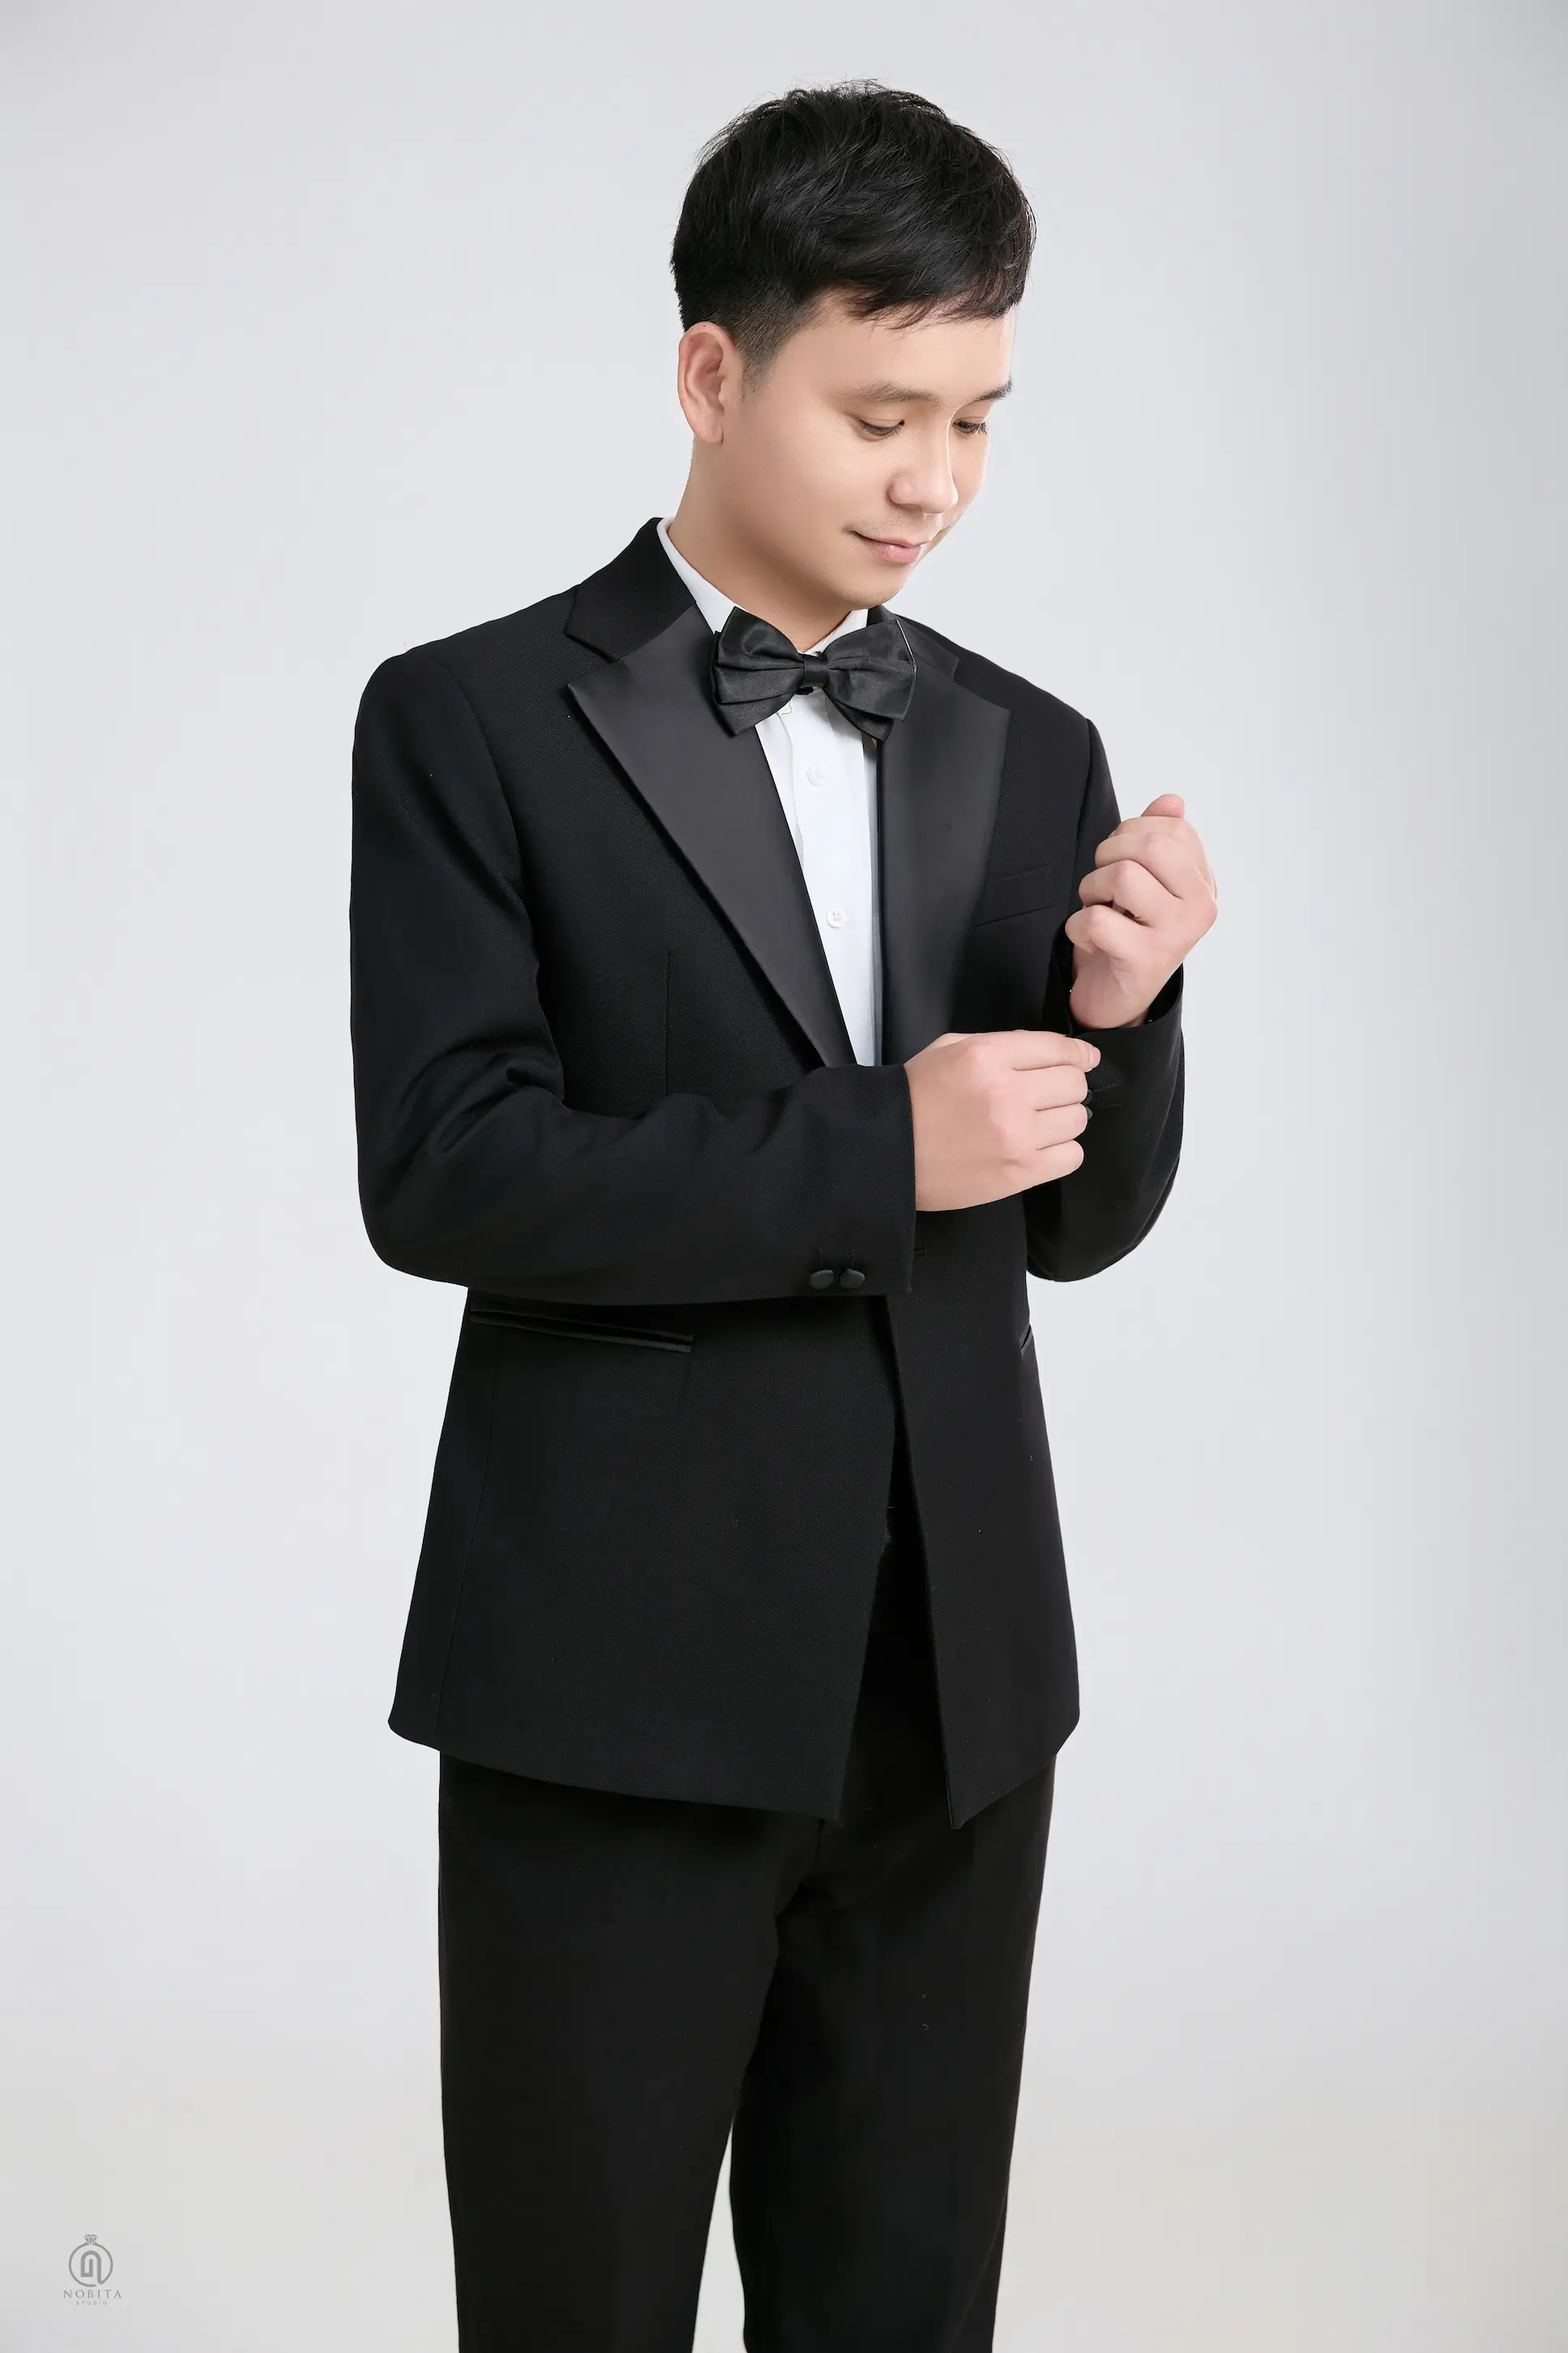
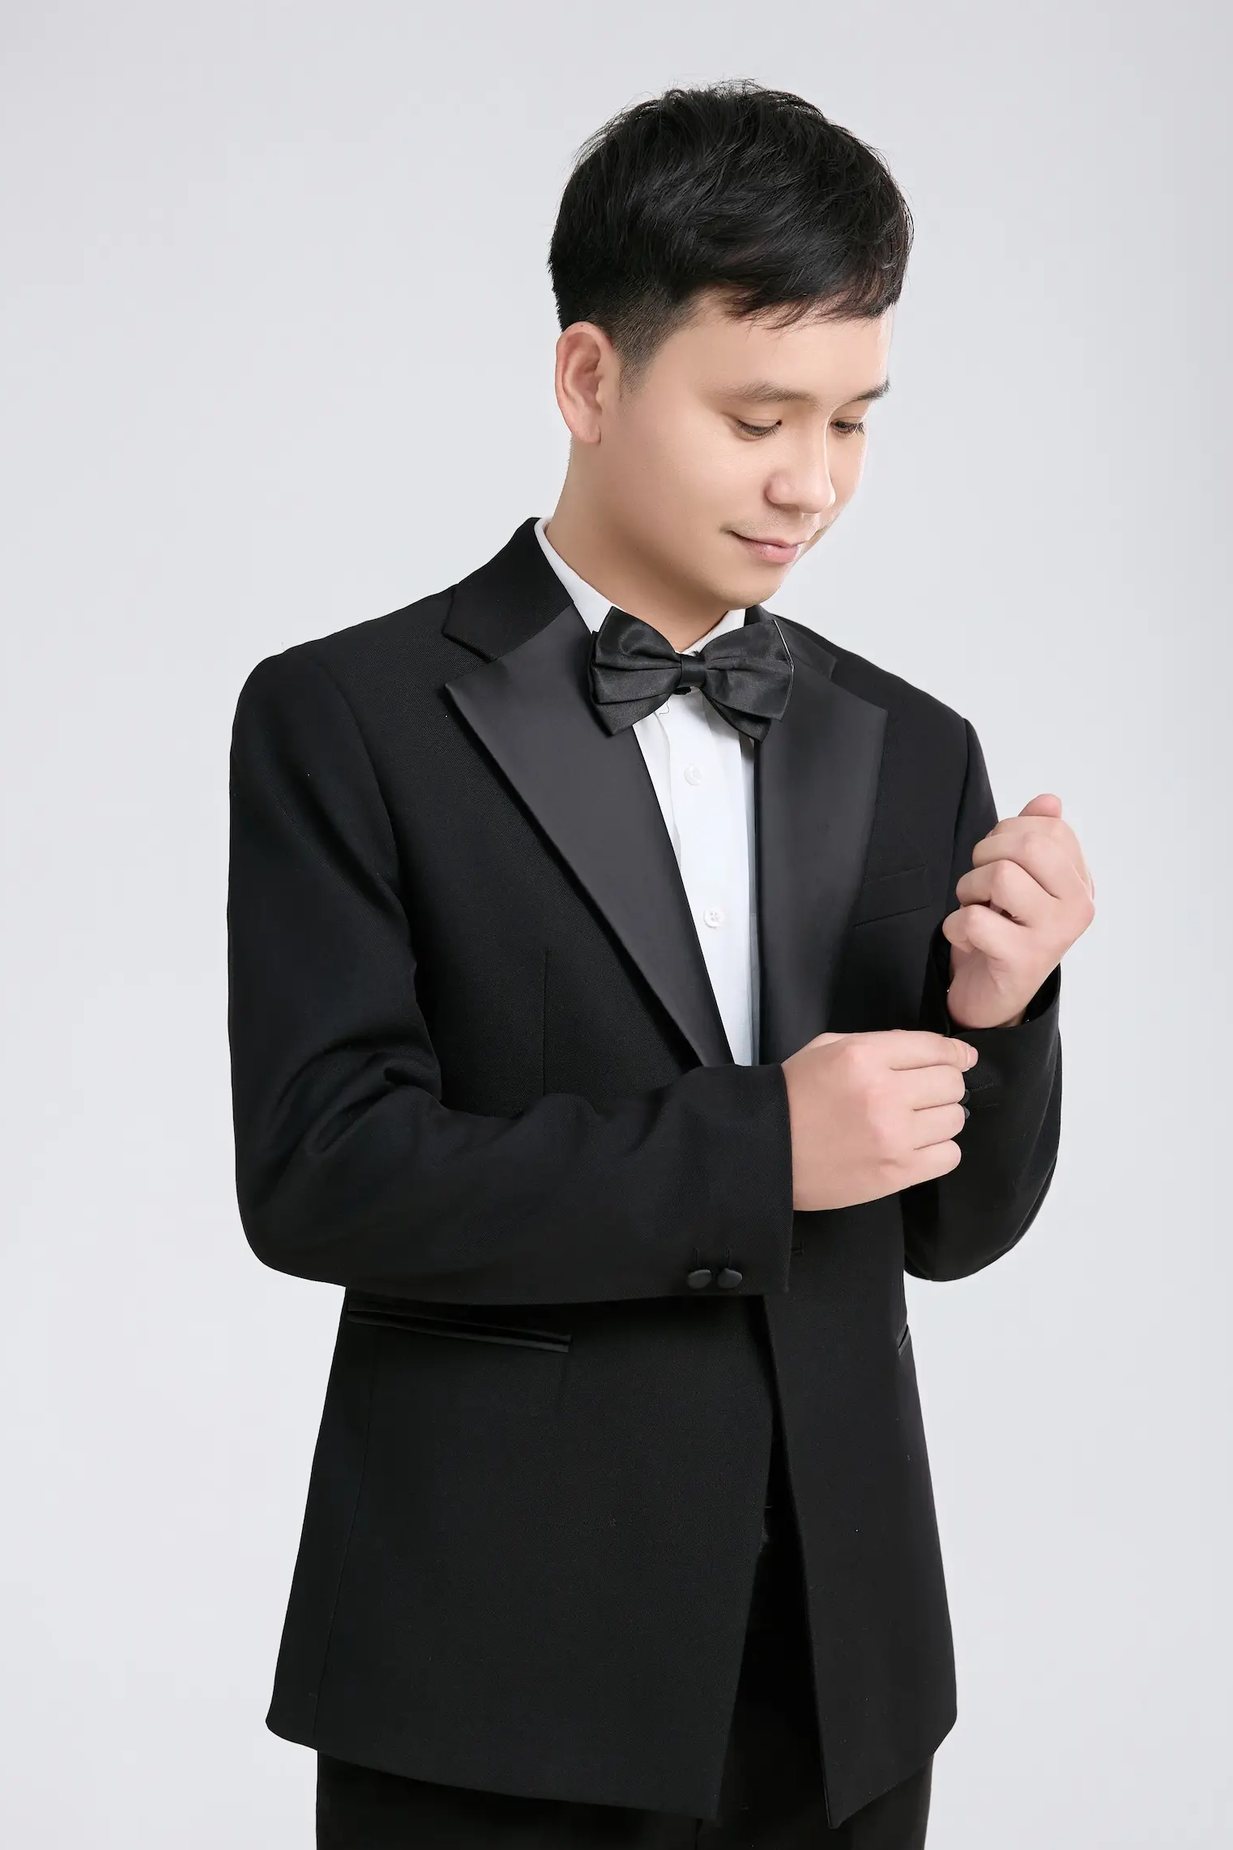
ảnh đợt 2

diff --git a/wedding/index.html b/wedding/index.html
@@ -81,8 +81,8 @@
         </div>
         <div class="anim" data-anim="fadeInRight">
           <h3 class="fam-title">Nhà gái</h3>
-          <p class="fam-parents">Ông. Hoàng Ngọc Đồng<br>Bà. Trần Thị Nga</p>
-          <p class="fam-city">Khu 3, Hậu Lộc<br>Thanh Hoá</p>
+          <p class="fam-parents">Ông. Hoàng Ngọc Đổng<br>Bà. Trần Thị Nga</p>
+          <p class="fam-city">Thôn Trung Thành, Hậu Lộc<br>Thanh Hoá</p>
         </div>
       </div>
 
@@ -120,14 +120,14 @@
         Trân trọng kính mời <span class="guest-name" data-guest>Quý Khách</span> đến<br>chung vui cùng gia đình chúng tôi
       </p>
       <div class="trio">
-        <div class="photo zoom anim" data-anim="fadeInLeft" data-label="invite-1.jpg">
-          <img src="assets/images/invite-1.jpg" alt="" loading="lazy">
+        <div class="photo zoom anim" data-anim="fadeInLeft" data-label="invite-1.webp">
+          <img src="assets/images/invite-1.webp" alt="" loading="lazy">
         </div>
-        <div class="photo zoom trio-mid anim" data-anim="zoomIn" data-label="invite-2.jpg">
-          <img src="assets/images/invite-2.jpg" alt="" loading="lazy">
+        <div class="photo zoom trio-mid anim" data-anim="zoomIn" data-label="invite-2.webp">
+          <img src="assets/images/invite-2.webp" alt="" loading="lazy">
         </div>
-        <div class="photo zoom anim" data-anim="fadeInRight" data-label="invite-3.jpg">
-          <img src="assets/images/invite-3.jpg" alt="" loading="lazy">
+        <div class="photo zoom anim" data-anim="fadeInRight" data-label="invite-3.webp">
+          <img src="assets/images/invite-3.webp" alt="" loading="lazy">
         </div>
       </div>
     </section>
@@ -202,20 +202,6 @@
             <div class="photo zoom anim" data-anim="fadeInDown" data-label="album-4.jpg">
               <img src="assets/images/album-4.jpg" alt="" loading="lazy">
             </div>
-          </div>
-        </div>
-        <div class="g-grid">
-          <div class="photo zoom anim" data-anim="fadeInRight" data-label="album-5.jpg">
-            <img src="assets/images/album-5.jpg" alt="" loading="lazy">
-          </div>
-          <div class="photo zoom anim" data-anim="fadeInLeft" data-label="album-6.jpg">
-            <img src="assets/images/album-6.jpg" alt="" loading="lazy">
-          </div>
-          <div class="photo zoom anim" data-anim="fadeInRight" data-label="album-7.jpg">
-            <img src="assets/images/album-7.jpg" alt="" loading="lazy">
-          </div>
-          <div class="photo zoom anim" data-anim="fadeInLeft" data-label="album-8.jpg">
-            <img src="assets/images/album-8.jpg" alt="" loading="lazy">
           </div>
         </div>
       </div>
@@ -300,23 +286,23 @@
       <div class="gift-cards">
         <div class="gift-card">
           <p class="gift-side">Chú rể</p>
-          <div class="photo qr" data-label="qr-groom.png">
-            <img src="assets/images/qr-groom.png" alt="Mã QR chú rể" loading="lazy">
+          <div class="photo qr" data-label="qr-groom.jpg">
+            <img src="assets/images/qr-groom.jpg" alt="Mã QR chú rể" loading="lazy">
           </div>
-          <p class="gift-name">BÙI VĂN TUẤN</p>
-          <p class="gift-bank">ABC BANK</p>
-          <p class="gift-acc">88888888</p>
-          <button class="copy-btn" type="button" data-copy="88888888">Sao chép STK</button>
+          <p class="gift-name">BUI VAN TUAN</p>
+          <p class="gift-bank">VIETINBANK</p>
+          <p class="gift-acc">101875297021</p>
+          <button class="copy-btn" type="button" data-copy="101875297021">Sao chép STK</button>
         </div>
         <div class="gift-card">
           <p class="gift-side">Cô dâu</p>
-          <div class="photo qr" data-label="qr-bride.png">
-            <img src="assets/images/qr-bride.png" alt="Mã QR cô dâu" loading="lazy">
+          <div class="photo qr" data-label="qr-bride.jpg">
+            <img src="assets/images/qr-bride.jpg" alt="Mã QR cô dâu" loading="lazy">
           </div>
-          <p class="gift-name">HOÀNG THỊ THU TRANG</p>
-          <p class="gift-bank">XYZ BANK</p>
-          <p class="gift-acc">99999999</p>
-          <button class="copy-btn" type="button" data-copy="99999999">Sao chép STK</button>
+          <p class="gift-name">HOANG THU TRANG</p>
+          <p class="gift-bank">MBBANK</p>
+          <p class="gift-acc">882209958888</p>
+          <button class="copy-btn" type="button" data-copy="882209958888">Sao chép STK</button>
         </div>
       </div>
     </div>
